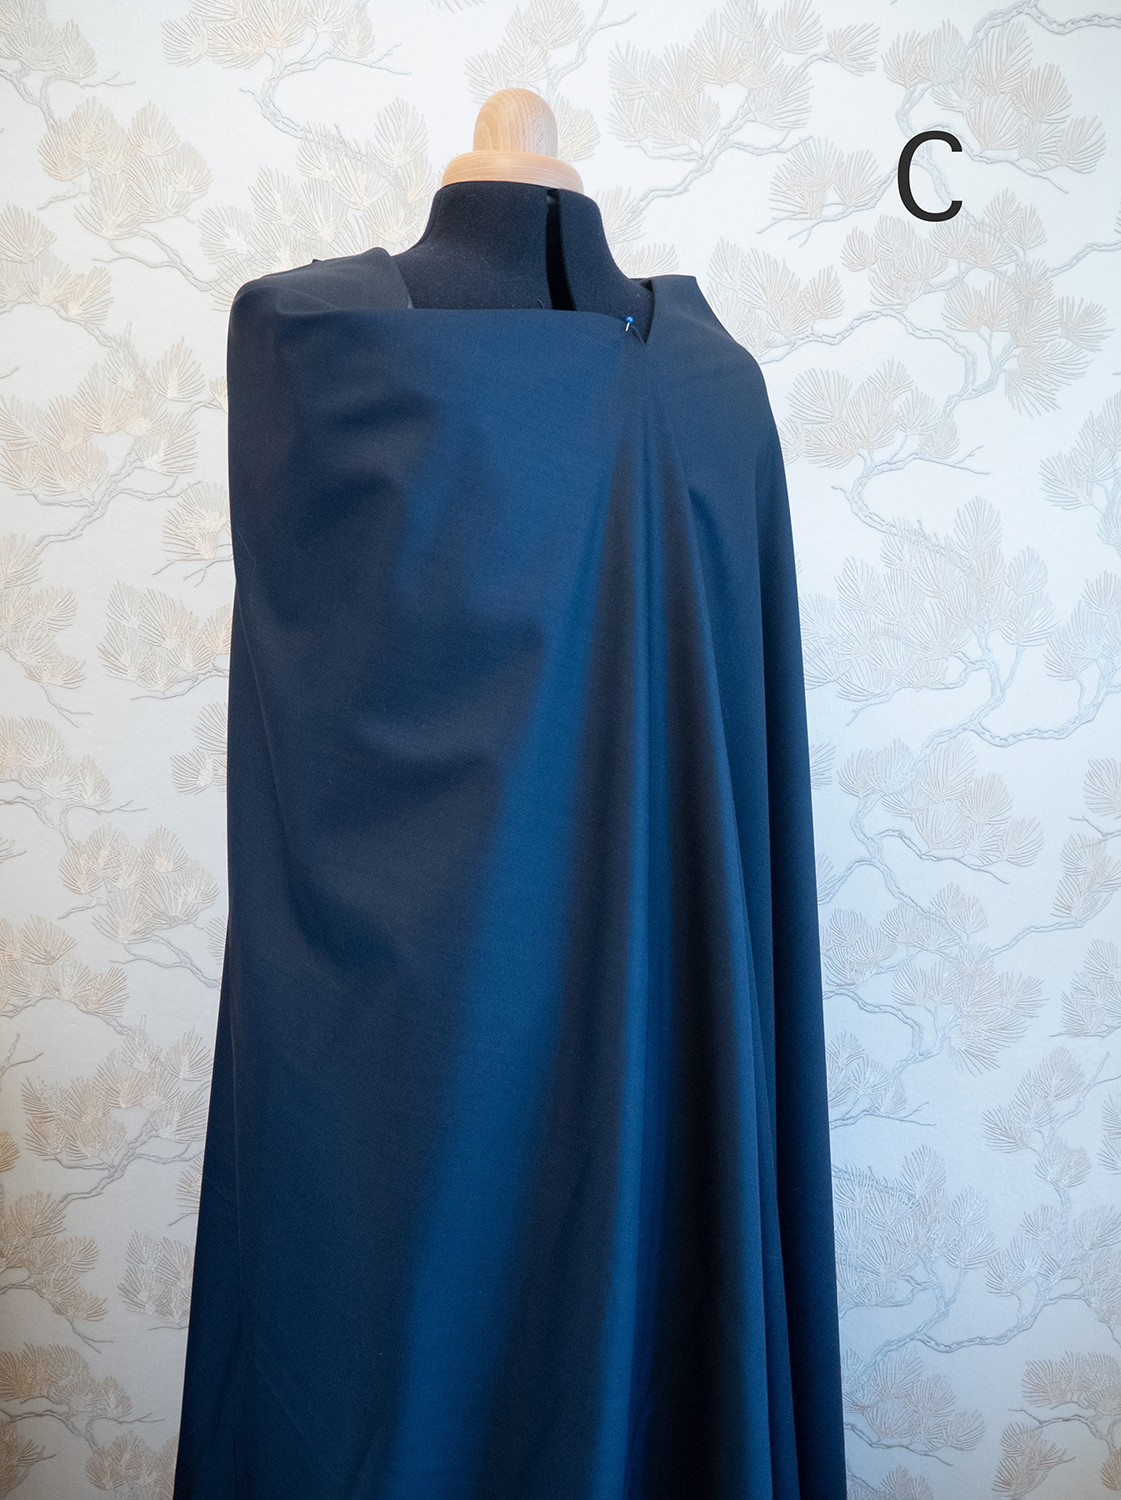
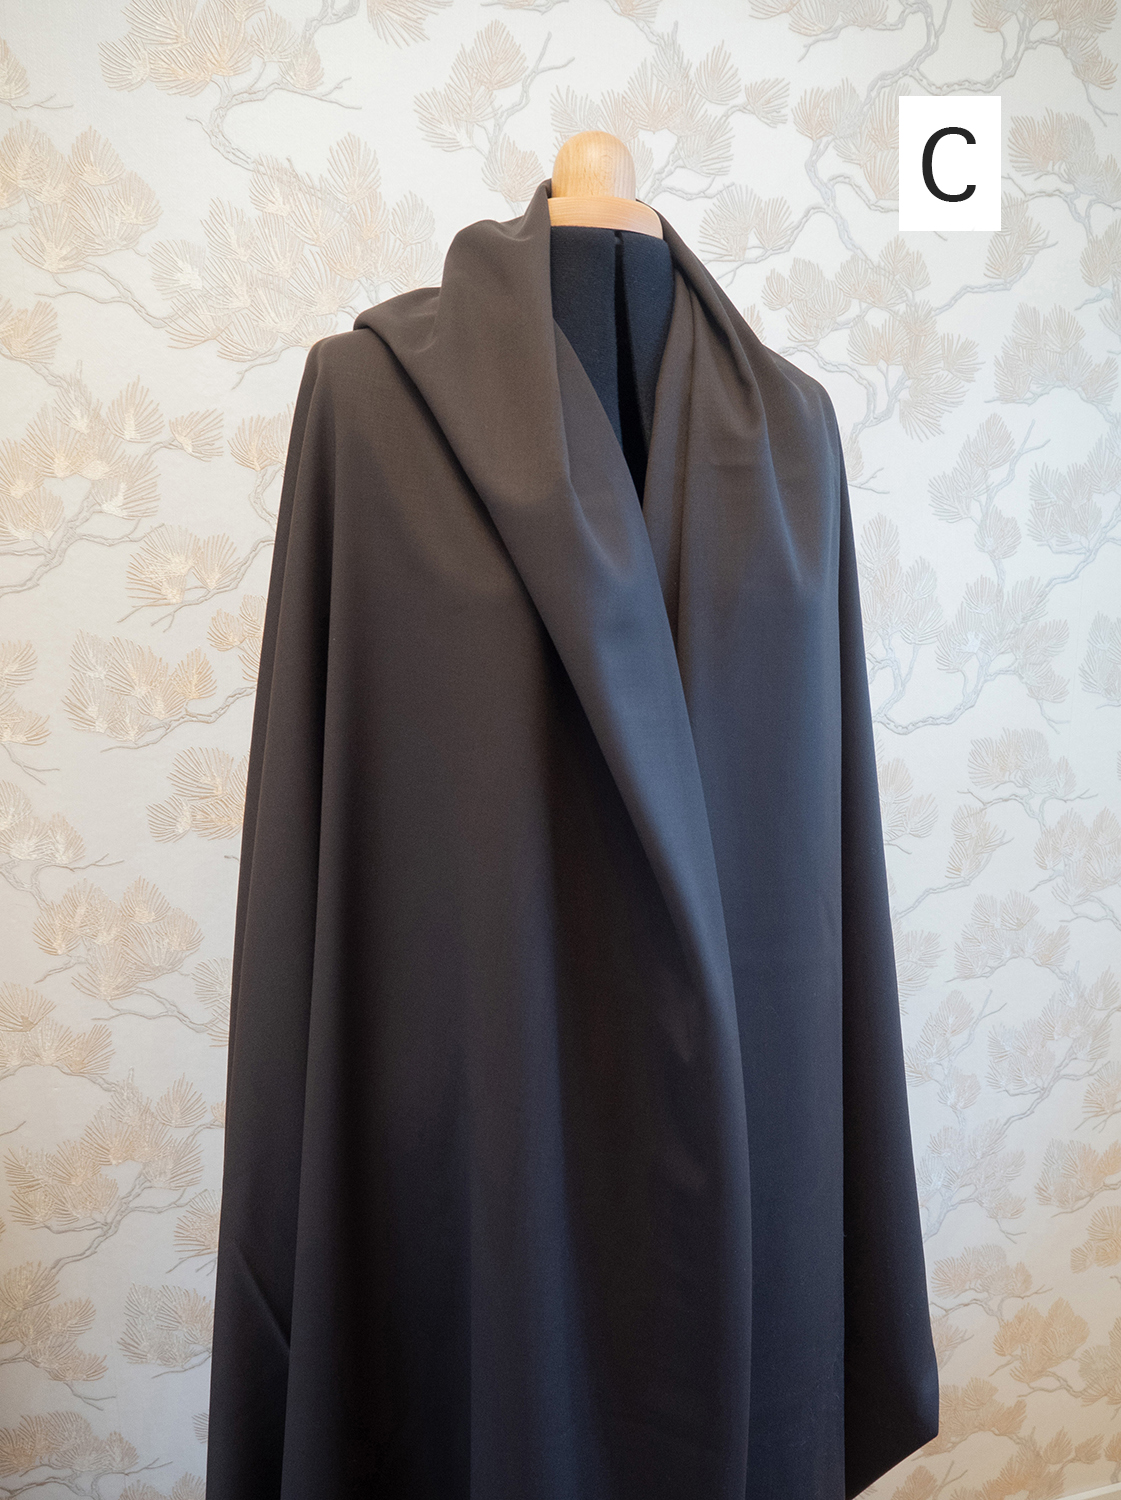
new halatti pics

diff --git a/halatti.html b/halatti.html
@@ -258,25 +258,29 @@
     <div class="responsive-slider example-pics hidden example2">
       <ul class="rslides" id="slider3">
         <li>
-          <img src="images/halatti/halattiproto_3_5.jpg" alt="">
+          <img src="images/halatti/harmaanukella.jpg" alt="">
           <p class="caption">1/4</p>
         </li>
         <li>
-          <img src="images/halatti/halattiproto_3_7.jpg" alt="">
+          <img src="images/halatti/halattiproto_3_5.jpg" alt="">
           <p class="caption">2/4</p>
         </li>
         <li>
-          <img src="images/halatti/halattiproto_3_6.jpg" alt="">
+          <img src="images/halatti/halattiproto_3_7.jpg" alt="">
           <p class="caption">3/4</p>
         </li>
         <li>
-          <img src="images/halatti/halattiproto_3_1.jpg" alt="">
+          <img src="images/halatti/halattiproto_3_6.jpg" alt="">
           <p class="caption">4/4</p>
         </li>
+        <!--<li>
+          <img src="images/halatti/halattiproto_3_1.jpg" alt="">
+          <p class="caption">4/4</p>
+        </li>-->
       </ul>
     </div>
       
-    <div class="responsive-slider example-pics hidden example5">
+  <!--  <div class="responsive-slider example-pics hidden example5">
       <ul class="rslides" id="slider5">
         <li>
           <img src="images/halatti/vihrea_ulko/ulkona5.jpg" alt="">
@@ -299,37 +303,17 @@
           <p class="caption">5/5</p>
         </li>
       </ul>
-    </div>
+    </div> -->
     <div class="responsive-slider example-pics hidden example3">
       <ul class="rslides" id="slider2">
         <li>
-          <img src="images/halatti/halattisolkietu.jpg" alt="">
-          <p class="caption">1/3</p>
+          <img src="images/halatti/sinietu.jpg" alt="">
+          <p class="caption">1/2</p>
         </li>
         <li>
-          <img src="images/halatti/halattisolki_taka.jpg" alt="">
-          <p class="caption">2/3</p>
+          <img src="images/halatti/sinitaka.jpg" alt="">
+          <p class="caption">2/2</p>
         </li>
-        <li>
-          <img src="images/halatti/halattisolki-backtied.jpg" alt="">
-          <p class="caption">3/3</p>
-        </li>
-        <!-- <li>
-             <img src="images/halatti/halattiproto2-4-2.jpg" alt="">
-             <p class="caption">Paksummasta villasta valmistettu vuoritettu versio sopii kylmään tupaan. Puolipitkä malli (B) kapeilla pitkillä hihoilla (D), kangas E, vuoritettu, Selkäkoru H, kiinteä (ei korulukkoa).</p>
-         </li>
-         <li>
-             <img src="images/halatti/halattiproto2-etu-soljella.jpg" alt="">
-             <p class="caption">Jos halatista haluaa laskeutuvamman, voi vyön sijaan valita soljen. Tässä versiossa etukappaleet eivät mene päällekkäin.</p>
-         </li>
-         <li>
-             <img src="images/halatti/halattiproto2-taka-soljella.jpg" alt="">
-             <p class="caption">Ilman vyötä halatti on malliltaan väljä ja selän laskokset pääsevät laskeutumaan vapaasti.</p>
-         </li>
-         <li>
-             <img src="images/halatti/halattiproto2-sivu-soljella.jpg" alt="">
-             <p class="caption">Ilman vyötä halatti on malliltaan väljä ja selän laskokset pääsevät laskeutumaan vapaasti.</p>
-         </li>-->
       </ul>
     </div>
     <div class="responsive-slider example-pics hidden example4">
@@ -342,10 +326,6 @@
           <img src="images/halatti/halattiproto_1_1.jpg" alt="">
           <p class="caption">2/5</p>
         </li>
-        <!--  <li>
-              <img src="images/halatti/halattiproto_1_3.jpg" alt="">
-              <p class="caption">Pitkä malli (C) pitkillä leveillä hihoilla (C) henkii taikaa. Ei vuoria, vyö mallia E.</p>
-          </li-->
         <li>
           <img src="images/halatti/halattiproto_1_4.jpg" alt="">
           <p class="caption">3/5</p>
@@ -369,15 +349,15 @@
         </li>
         <li>
           <button id="examplePic2Thumbnail" class="exampleThumbnail example2thumbnail not-selected"><img
-            src="images/halatti/thumbnails/halattiproto3.jpg"></button>
+            src="images/halatti/thumbnails/harmaalyhyt.jpg"></button>
         </li>
-        <li>
+        <!--<li>
           <button id="examplePic5Thumbnail" class="exampleThumbnail example5thumbnail not-selected"><img
             src="images/halatti/thumbnails/vihreavilla.jpg"></button>
-        </li>
+        </li> -->
         <li>
           <button id="examplePic3Thumbnail" class="exampleThumbnail example3thumbnail not-selected"><img
-            src="images/halatti/thumbnails/halattisolki.jpg"></button>
+            src="images/halatti/thumbnails/sininen.jpg"></button>
         </li>
         <li>
           <button id="examplePic4Thumbnail" class="exampleThumbnail example4thumbnail not-selected"><img
@@ -407,16 +387,16 @@
           <li class="brown-text"><i class="fa-li fa fa-thin fa-leaf"></i>Pukuvilla-versio on kevyt päällä, tuntuu
             ylelliseltä ja raikastuu tuulettamalla!
           </li>
-          <li><i class="fa-li fa fa-thin fa-leaf"></i>Voidaan valmistaa myös paksusta kankaasta ja vuorilla, jolloin
+          <!--<li><i class="fa-li fa fa-thin fa-leaf"></i>Voidaan valmistaa myös paksusta kankaasta ja vuorilla, jolloin
             toimii välikausitakkina.
-          </li>
-          <li class="brown-text"><i class="fa-li fa fa-thin fa-leaf"></i>Voidaan valmistaa toiveidesi mukaan,
+          </li>-->
+          <li><i class="fa-li fa fa-thin fa-leaf"></i>Voidaan valmistaa toiveidesi mukaan,
             esimerkiksi napeilla vyön sijaan.
           </li>
-          <li><i class="fa-li fa fa-thin fa-leaf"></i>Valmistettu zero waste -periaatteella, ylijäävä kangas on
+          <li class="brown-text"><i class="fa-li fa fa-thin fa-leaf"></i>Valmistettu zero waste -periaatteella, ylijäävä kangas on
             minimoitu kaavoituksessa.
           </li>
-          <li class="brown-text"><i class="fa-li fa fa-thin fa-leaf"></i>Voit tilata myös omalla kankaallasi!</li>
+          <li><i class="fa-li fa fa-thin fa-leaf"></i>Voit tilata myös omalla kankaallasi!</li>
         </ul>
         <div class="selectedExampleText hidden-xs" style="margin-top: 40px;">
           <div>Valittu esimerkki:</div>
@@ -509,27 +489,17 @@
               <img src="images/halatti/fabric_B.jpg" alt="">
             </li>
             <li>
-              <img src="images/halatti/fabric_C.jpg" style="opacity: 0.5;" alt="">
-            </li>
-            <li>
-              <img src="images/halatti/fabric_D.jpg" alt="">
-            </li>
-            <li>
-              <img src="images/halatti/fabric_e.jpg" alt="">
-            </li>
-            <li>
-              <img src="images/halatti/fabric_f_blue.jpg" alt="">
+              <img src="images/halatti/fabric_C.jpg" alt="">
             </li>
           </ul>
           <label class="halatti-label" for="fabric">Kangas</label>
           <select id="fabric" name="fabric" class="priceOption" required>
             <option value="graywool_A">A - Ohut pukuvilla, harmaa (55€)</option>
             <option value="lightblue_B">B - Ohut pukuvilla, vaaleansininen (35€)</option>
-            <option value="darkblue_C" disabled>C - Ohut pukuvilla, tummansininen (loppuunmyyty)</option>
-            <option value="brown_D">D - Ohut pukuvilla, kaakaonruskea (45€)</option>
-            <option value="redviscose_E">E - Paksu villaviskoosi, viininpunainen (35€)</option>
-            <option value="blueviscose_F">F - Paksu villaviskoosi, tummansininen (35€)</option>
-            <option value="ownfabric_G">G - Oma kangas (0€)</option>
+            <option value="brown_C">C - Ohut pukuvilla, kaakaonruskea (45€)</option>
+            <!--<option value="redviscose_E">E - Paksu villaviskoosi, viininpunainen (35€)</option>
+            <option value="blueviscose_F">F - Paksu villaviskoosi, tummansininen (35€)</option>-->
+            <option value="ownfabric_D">D - Oma kangas (0€)</option>
           </select>
           <br>
           <span class="halatti-info-text">Huom! Kankaiden valikoima vaihtuu usein ja toisinaan kangasta saattaa olla tarpeeksi vain yhteen halattiin.</span>

diff --git a/js/halatti.js b/js/halatti.js
@@ -38,11 +38,8 @@ $(document).ready(function(){
         
         {id: "graywool_A", value: 55},
         {id: "lightblue_B", value: 35},
-        {id: "darkblue_C", value: 35},
-        {id: "brown_D", value: 45},
-        {id: "redviscose_E", value: 35},
-        {id: "blueviscose_F", value: 35},
-        {id: "ownfabric_G", value: 0}
+        {id: "brown_C", value: 45},
+        {id: "ownfabric_D", value: 0}
         
     ];
     
@@ -228,8 +225,8 @@ $(document).ready(function(){
         $(".example4thumbnail").addClass("not-selected");
         $(".example5thumbnail").addClass("not-selected");
         
-        $("#halattiExampleText").html("Keskipitkä helma (B), keskipitkät hihat (A). Kankaana ohut silkkivilla. Vyö D, selkäkoru A.");
-        $("#halattiExampleTextMobile").html("Keskipitkä helma (B), keskipitkät hihat (A). Kankaana ohut silkkivilla. Vyö D, selkäkoru A.");
+        $("#halattiExampleText").html("Keskipitkä helma (B), keskipitkät leveät hihat (A). Kankaana ohut silkkivilla. Vyö D, selkäkoru A.");
+        $("#halattiExampleTextMobile").html("Keskipitkä helma (B), keskipitkät leveät hihat (A). Kankaana ohut silkkivilla. Vyö D, selkäkoru A.");
     };
     function changeExamplePic2Value() {
         $(".example2").removeClass("hidden");
@@ -244,8 +241,8 @@ $(document).ready(function(){
         $(".example4thumbnail").addClass("not-selected");
         $(".example5thumbnail").addClass("not-selected");
         
-        $("#halattiExampleText").html("Lyhyt helma (A), keskipitkät hihat (A). Kangas A, vuoritettu. Vyö D.");
-        $("#halattiExampleTextMobile").html("Lyhyt helma (A), keskipitkät hihat (A). Kangas A, vuoritettu. Vyö D.");
+        $("#halattiExampleText").html("Lyhyt helma (A), keskipitkät leveät hihat (A). Kangas A, vuoritettu. Vyö D.");
+        $("#halattiExampleTextMobile").html("Lyhyt helma (A), keskipitkät leveät hihat (A). Kangas A, vuoritettu. Vyö D.");
     };
     function changeExamplePic3Value() {
         $(".example3").removeClass("hidden");
@@ -260,8 +257,8 @@ $(document).ready(function(){
         $(".example4thumbnail").addClass("not-selected");
         $(".example5thumbnail").addClass("not-selected");
         
-        $("#halattiExampleText").html("Keskipitkä helma (B) kapeilla pitkillä hihoilla (D), kangas E, vuoritettu, Selkäkoru D ilman korulukkoa. Vyön sijaan solki ja viimeisessä kuvassa taakse sidottu naru.");
-        $("#halattiExampleTextMobile").html("Keskipitkä helma (B) kapeilla pitkillä hihoilla (D), kangas E, vuoritettu, Selkäkoru D ilman korulukkoa. Vyön sijaan solki ja viimeisessä kuvassa taakse sidottu naru.");
+        $("#halattiExampleText").html("Keskipitkä helma (B) kapeilla keskipitkillä hihoilla (C), sininen pukuvilla, vuoritettu, Selkäkoru A. Erikoistoiveena pitsikaulus.");
+        $("#halattiExampleTextMobile").html("Keskipitkä helma (B) kapeilla keskipitkillä hihoilla (C), sininen pukuvilla, vuoritettu, Selkäkoru A. Erikoistoiveena pitsikaulus.");
     };
     
     function changeExamplePic4Value() {
@@ -307,7 +304,7 @@ $(document).ready(function(){
     document.getElementById("examplePic2Thumbnail").addEventListener("click", changeExamplePic2Value);
     document.getElementById("examplePic3Thumbnail").addEventListener("click", changeExamplePic3Value);
     document.getElementById("examplePic4Thumbnail").addEventListener("click", changeExamplePic4Value);
-    document.getElementById("examplePic5Thumbnail").addEventListener("click", changeExamplePic5Value);
+    //document.getElementById("examplePic5Thumbnail").addEventListener("click", changeExamplePic5Value);
     
     $("#halattiForm").on('input', '.priceOption', calculateSum);
     
